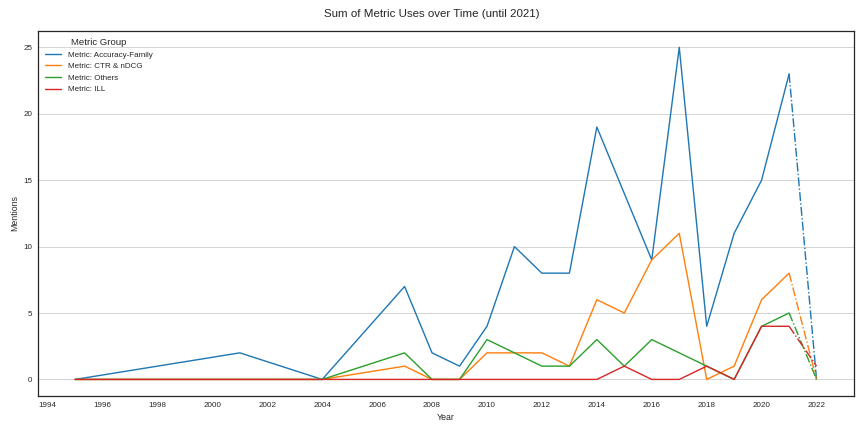
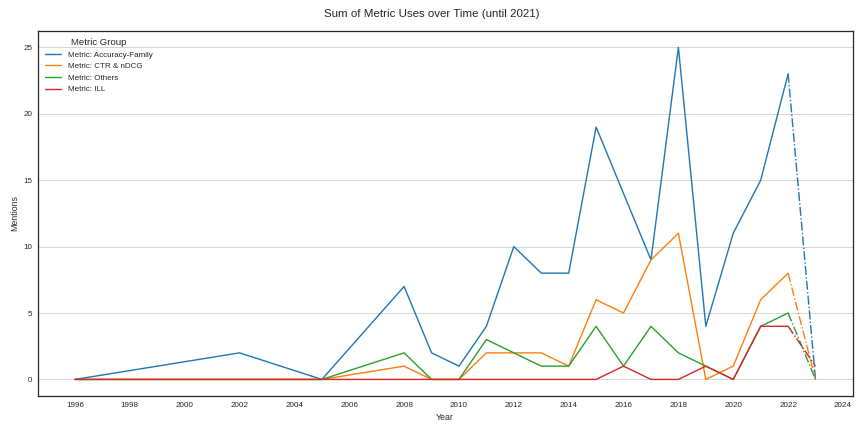
Changed all the plots with updated document

diff --git a/analyse_literature_review_results.py b/analyse_literature_review_results.py
@@ -41,7 +41,7 @@ C_METRICS_CTR = "Metric: CTR & nDCG"
 C_METRICS_OTHER = "Metric: Others"
 C_METRICS_DIVERSITY = "Metric: ILL"
 
-data = pd.read_csv(io.open('data_literature_review/data_post_screening.csv', 'r', encoding='utf-8'))
+data = pd.read_csv(io.open('data_literature_review/data_post_screening_corrected.csv', 'r', encoding='utf-8'))
 data = data.set_index("ID")
 data = data.applymap(lambda x: x.strip() if isinstance(x, str) else x)
 data = data[[col for col in data.columns if not ("Spalte" in col)]]
@@ -62,7 +62,7 @@ data[all_relevant_cols] = data[all_relevant_cols].infer_objects()
 data[all_relevant_cols] = data[all_relevant_cols].astype(float)
 data = data[data['Not Relevant'] == 0].drop('Not Relevant', axis=1)
 data[C_TYPE_PAPER] = data[C_TYPE_PAPER].str.title().replace("Conceptual/Analysis", "Conceptual").replace("Conceptual/Review", "Conceptual")
-data[C_YEAR] = pd.to_datetime(data[C_YEAR].astype(str), format="%Y")
+data[C_YEAR] = pd.to_datetime(data[C_YEAR].astype(str), format="%Y") + pd.DateOffset(years=1)
 data[C_DIVERSITY_TYPE] = data[C_DIVERSITY_TYPE].str.split(',')
 data[C_EVALUATION_TYPE] = data[C_EVALUATION_TYPE].str.split(',')
 data = data.sort_values(C_YEAR)
@@ -446,7 +446,7 @@ plt.show()
 
 # %%
 df_all_pre_screening = pd.read_csv('data_literature_review/data_pre_screening.csv')
-df_all_pre_screening[C_YEAR] = pd.to_datetime(df_all_pre_screening["year"].astype(str), format="%Y")
+df_all_pre_screening[C_YEAR] = pd.to_datetime(df_all_pre_screening["year"].astype(str), format="%Y") + pd.DateOffset(years=1)
 df_all_pre_screening[C_TITLE] = df_all_pre_screening["title"]
 df_all_pre_screening = df_all_pre_screening[df_all_pre_screening[C_YEAR] >= data[C_YEAR].min()]
 df_all_pre_screening
@@ -509,7 +509,7 @@ plt.savefig('figs/lit_rev_count_nrs_over_time.png')
 plt.show()
 # %%
 df_all_pre_screening = pd.read_csv('data_literature_review/data_pre_screening.csv')
-df_all_pre_screening[C_YEAR] = pd.to_datetime(df_all_pre_screening["year"].astype(str), format="%Y")
+df_all_pre_screening[C_YEAR] = pd.to_datetime(df_all_pre_screening["year"].astype(str), format="%Y") + pd.DateOffset(years=1)
 df_all_pre_screening[C_TITLE] = df_all_pre_screening["title"]
 df_all_pre_screening = df_all_pre_screening[df_all_pre_screening[C_YEAR] >= data[C_YEAR].min()]
 df_all_pre_screening
